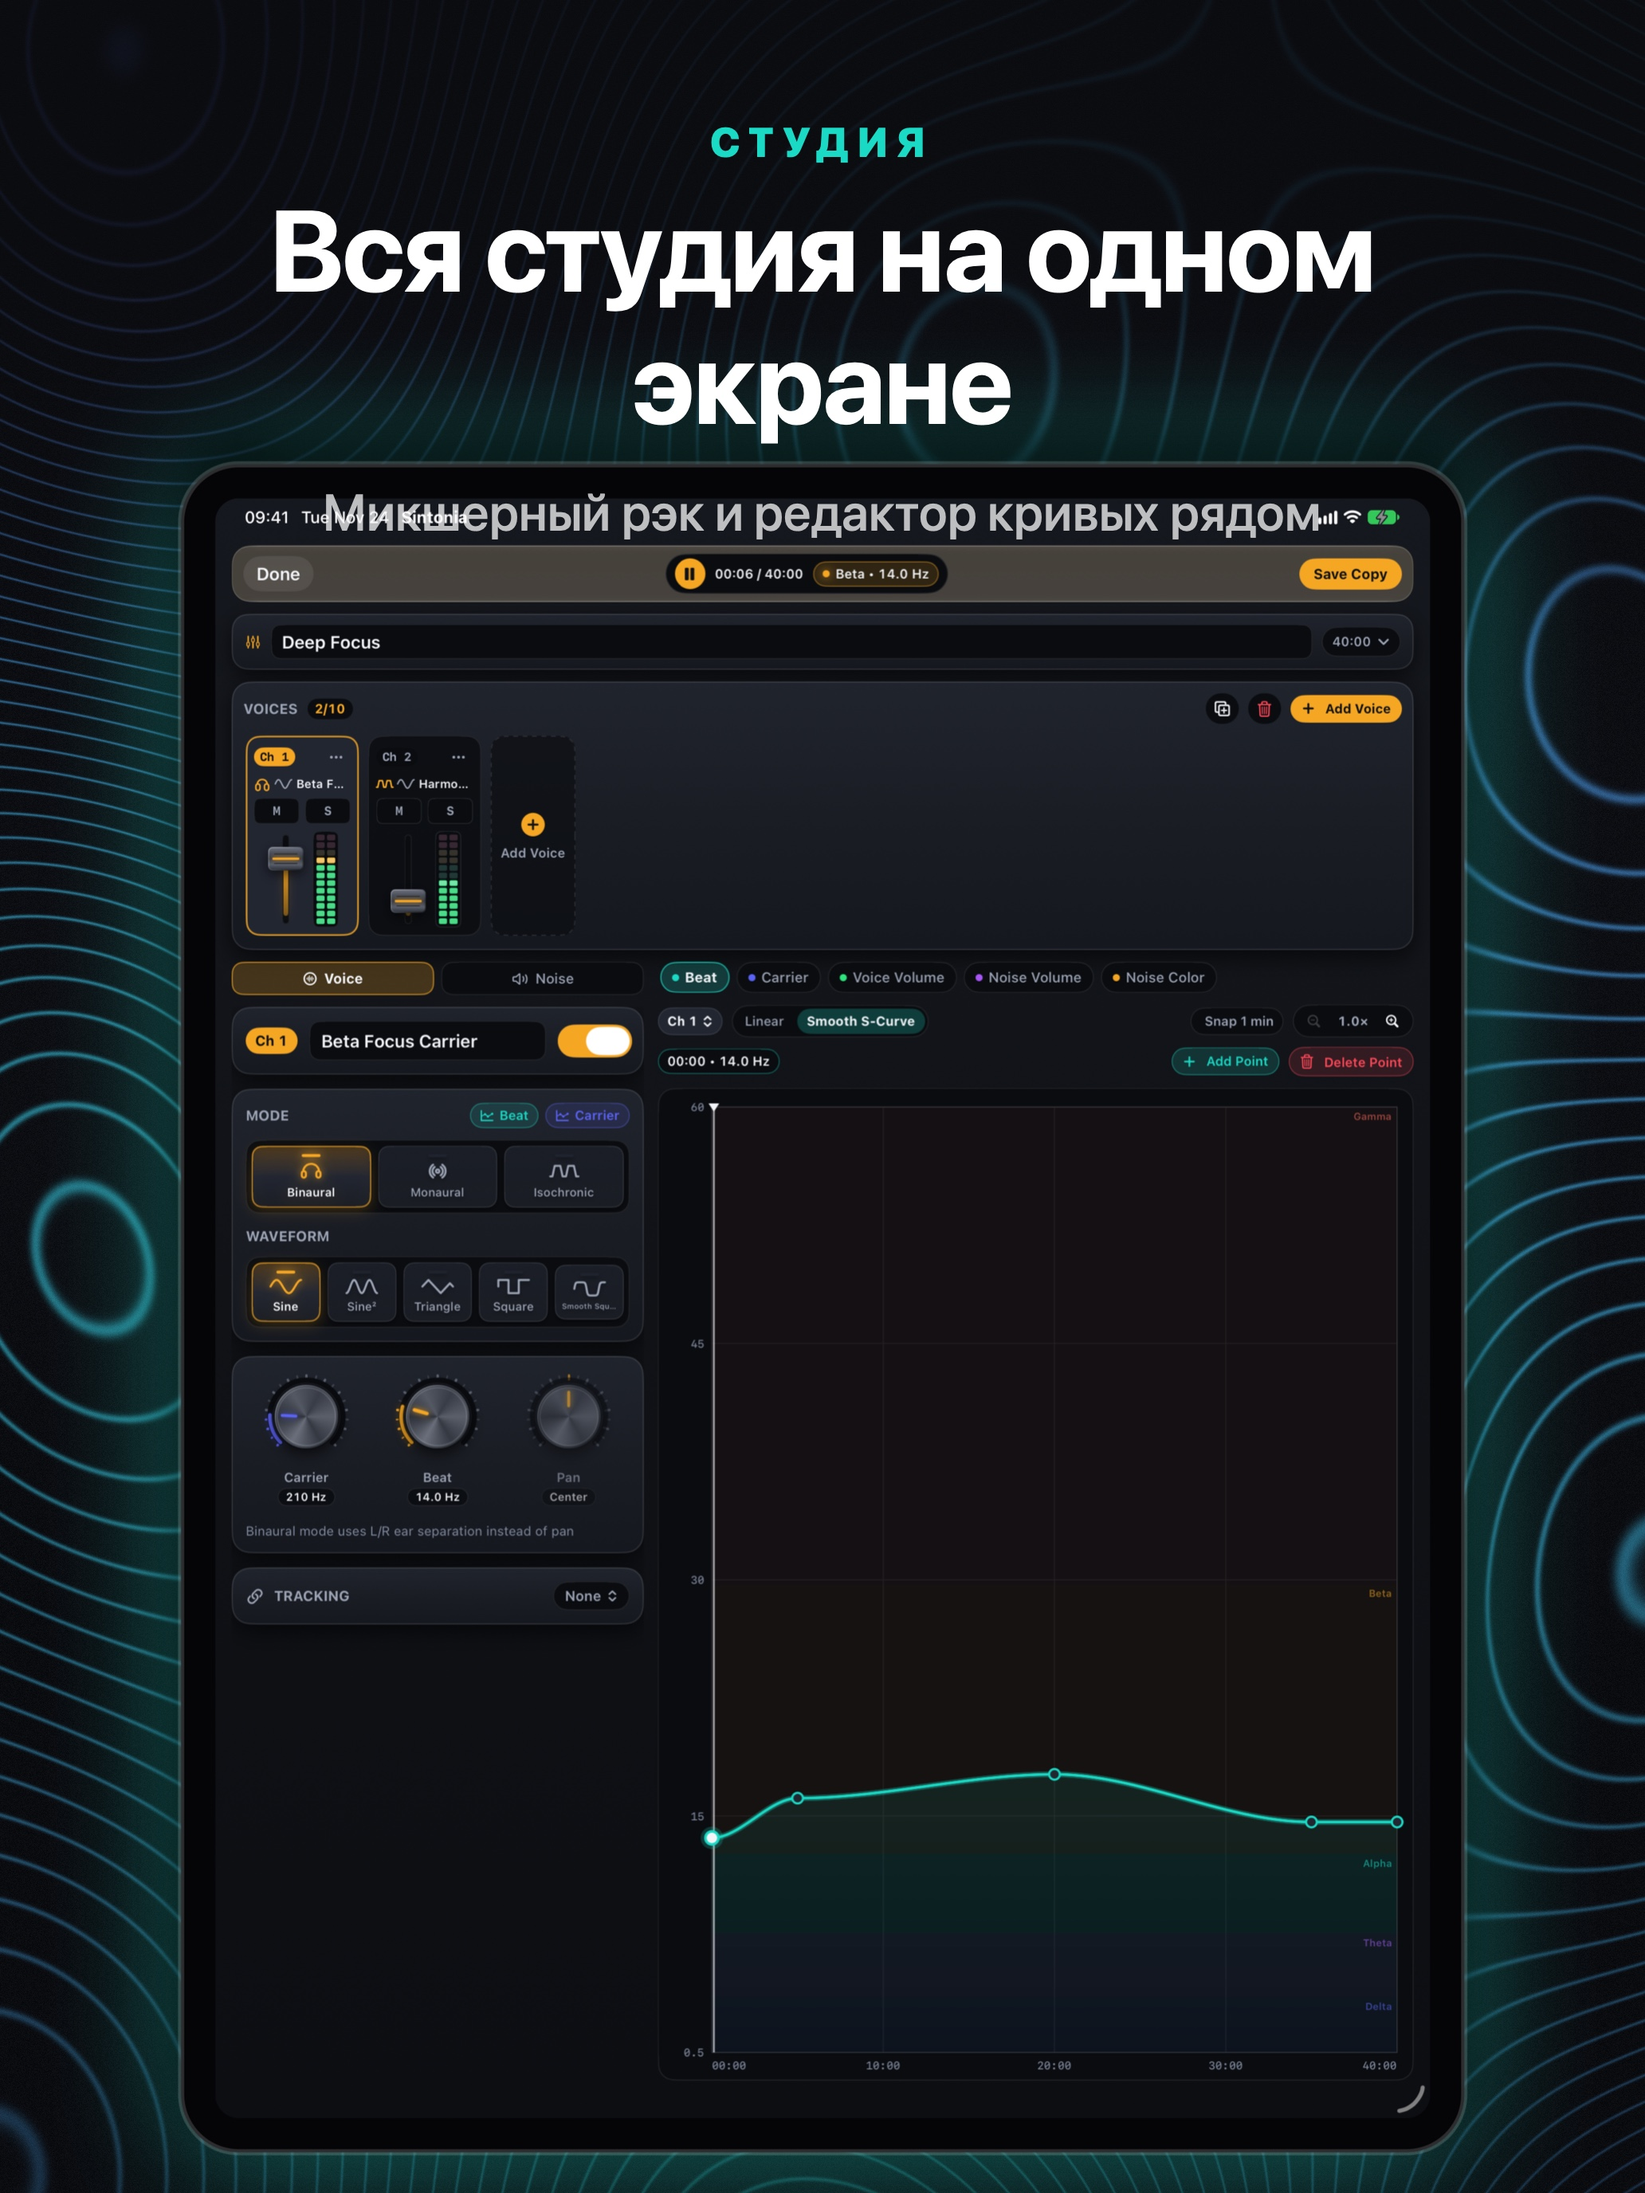
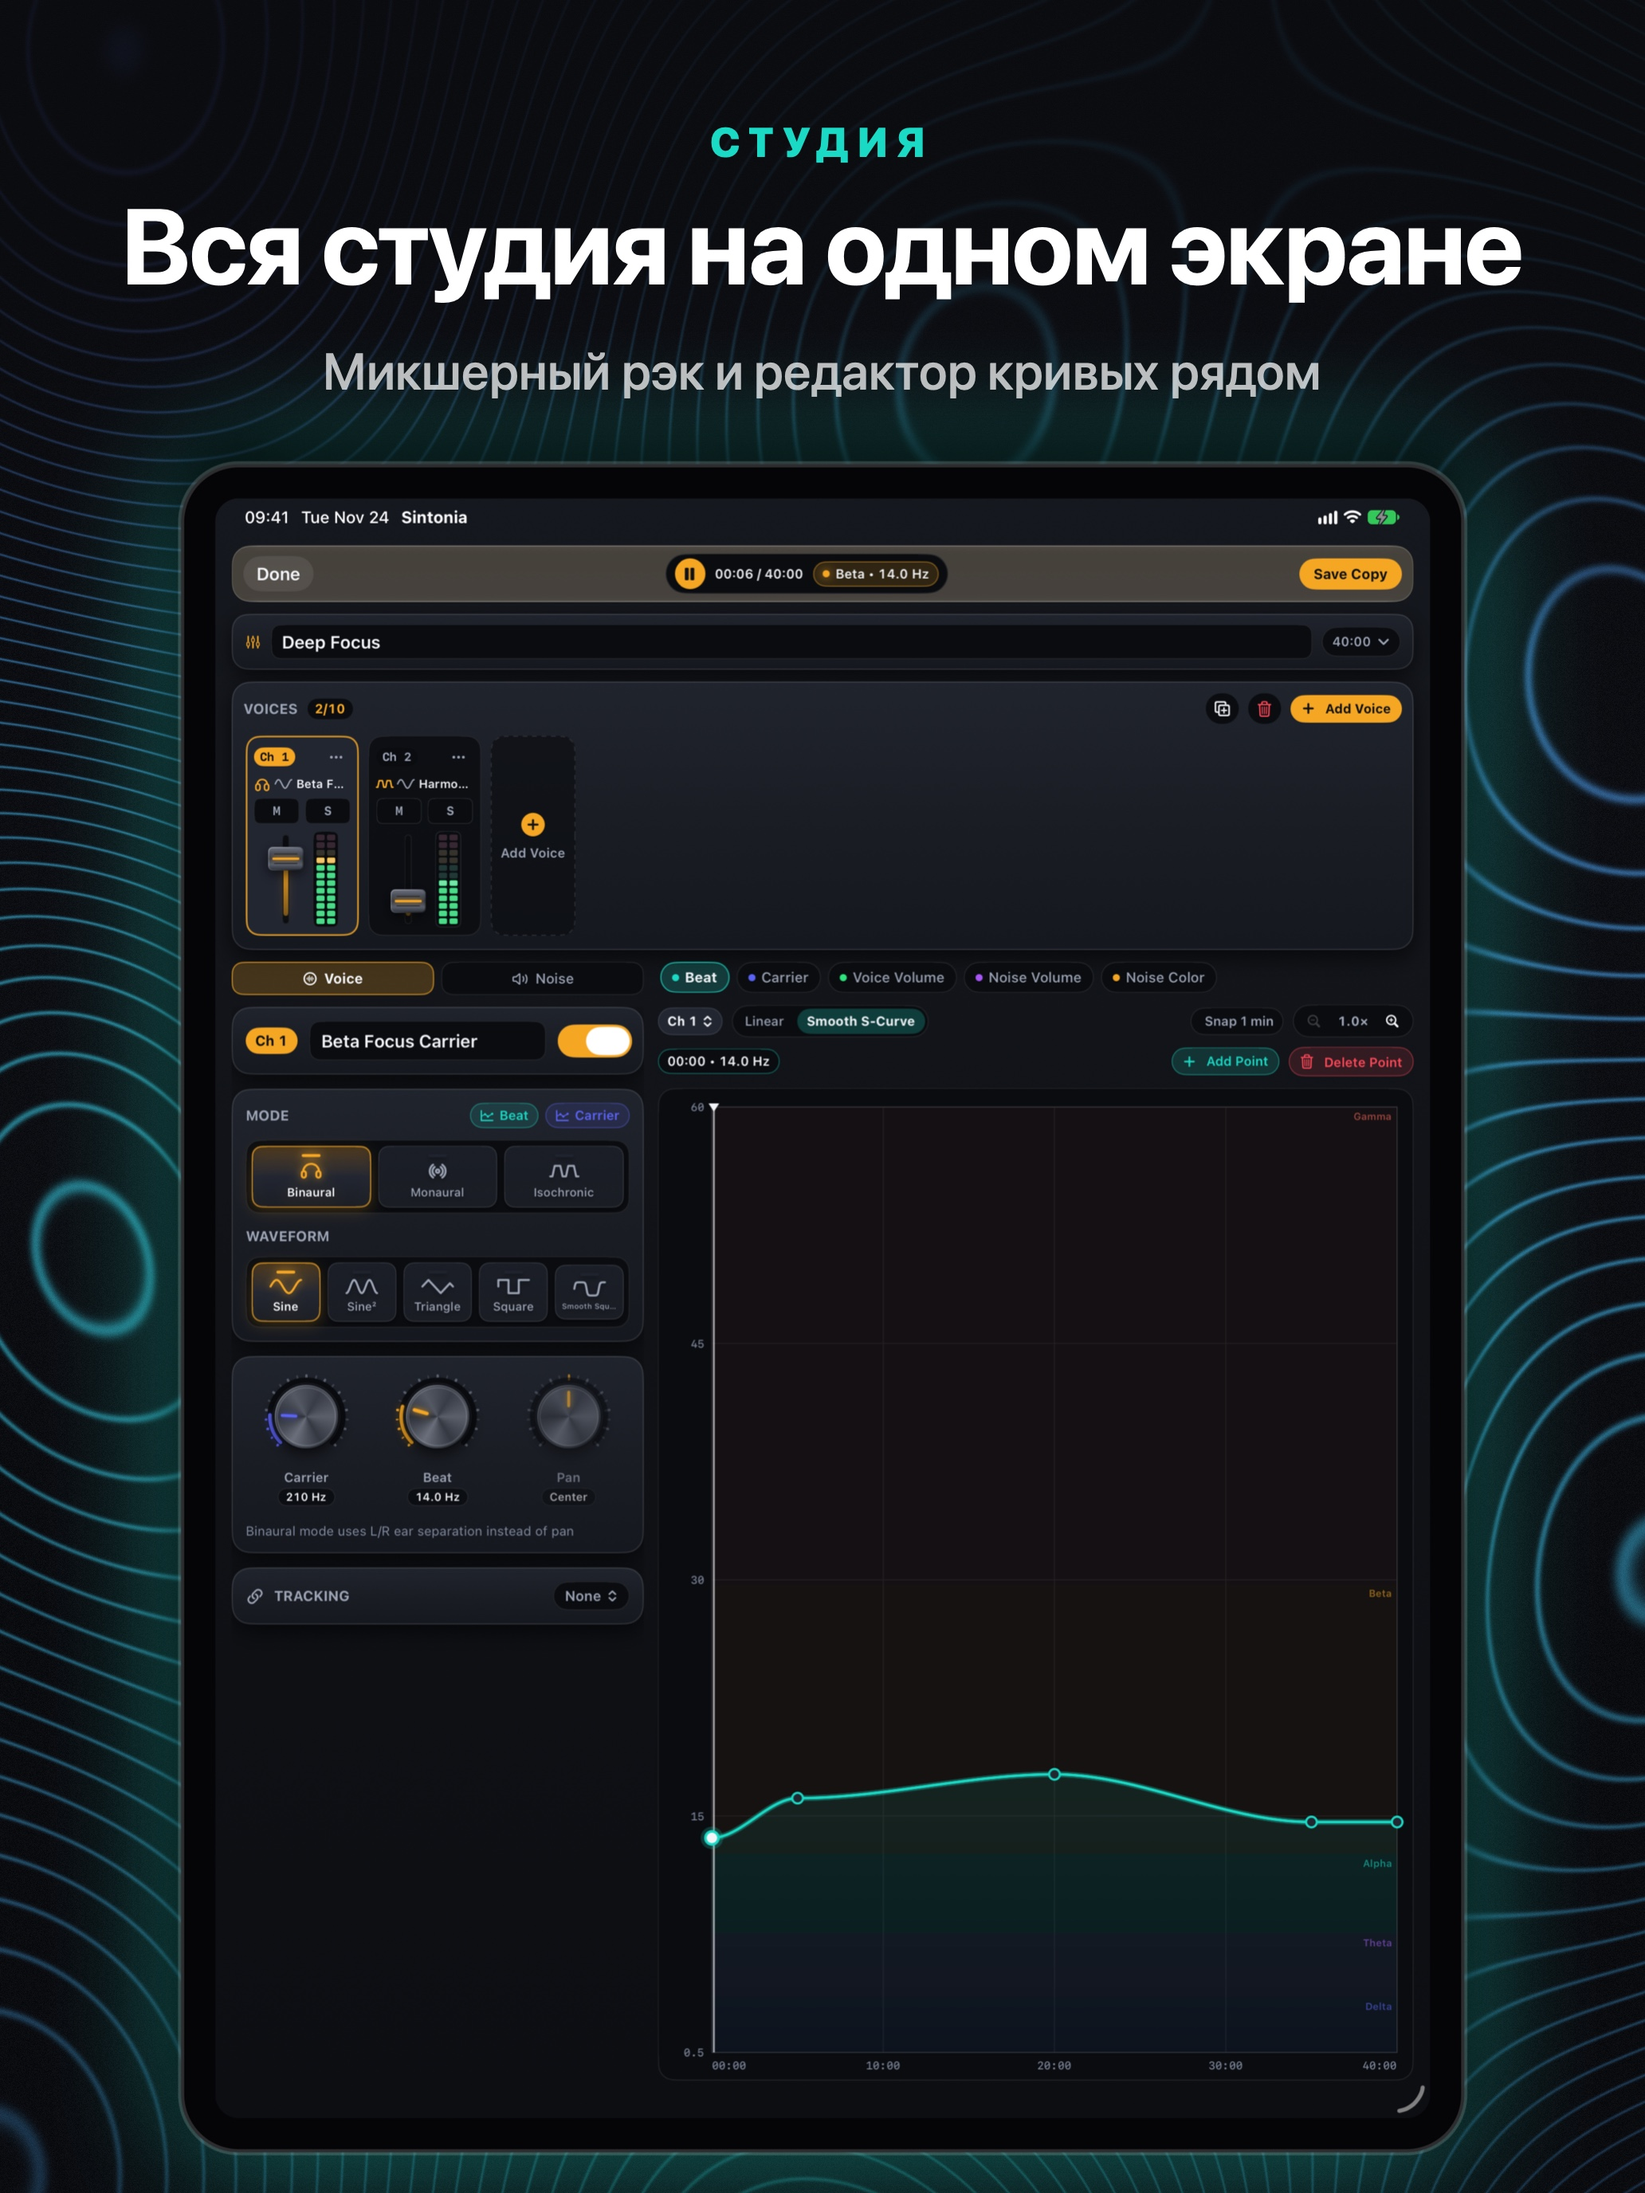
fix(appstore): auto-fit poster titles to their intended line count
The Russian iPad Studio title wrapped to two lines in SF Pro and its subtitle
overlapped the device. Titles now shrink until they keep their explicit line
breaks; the generator prints the fitted sizes (used by the Figma layouts).

Changed region(s): [[0.062, 0.0938, 0.9302, 0.25]]

diff --git a/Tools/AppStoreArt/main.swift b/Tools/AppStoreArt/main.swift
@@ -216,6 +216,22 @@ func drawText(_ ctx: CGContext, _ text: String, font: NSFont, color: CGColor, x:
     return height
 }
 
+/// Largest size ≤ `size` at which `text` keeps its explicit line breaks (no extra wrapping) within `width`.
+func fittedTitleSize(_ text: String, size: CGFloat, width: CGFloat, tracking: CGFloat) -> CGFloat {
+    let lines = CGFloat(text.split(separator: "\n", omittingEmptySubsequences: false).count)
+    var s = size
+    while s > 20 {
+        let attr = NSAttributedString(string: text, attributes: [.font: NSFont.systemFont(ofSize: s, weight: .bold), .kern: -s * tracking])
+        let setter = CTFramesetterCreateWithAttributedString(attr)
+        let fit = CTFramesetterSuggestFrameSizeWithConstraints(setter, CFRange(), nil, CGSize(width: width, height: .greatestFiniteMagnitude), nil)
+        if fit.height <= lines * s * 1.3 { return s }
+        s -= 2
+    }
+    return s
+}
+
+var fittedTitles: [String: CGFloat] = [:]
+
 // MARK: - Compose
 
 let langs = ["en", "ru"]
@@ -276,7 +292,9 @@ for poster in posters {
         // Text block.
         let unit = isMac ? H / 900 : W / 1320 * (poster.size == tablet ? 0.82 : 1)
         let eyebrowSize = (isMac ? 18 : 40) * unit
-        let titleSize = (isMac ? 46 : 112) * unit
+        let textWidthForFit = W * 0.86
+        let titleSize = fittedTitleSize(copy.title, size: (isMac ? 46 : 112) * unit, width: textWidthForFit, tracking: 0.015)
+        fittedTitles["\(lang)/\(poster.id)"] = titleSize
         let subSize = (isMac ? 0 : 50) * unit
         let textWidth = W * 0.86
         var y = isMac ? 52 * unit : H * 0.052
@@ -307,6 +325,7 @@ for poster in posters {
     print("rendered \(poster.id)")
 }
 
+for key in fittedTitles.keys.sorted() { print("title size \(key): \(fittedTitles[key]!)") }
 let json = try JSONSerialization.data(withJSONObject: manifest, options: [.prettyPrinted, .sortedKeys])
 try json.write(to: layersDir.appendingPathComponent("manifest.json"))
 print("done")
